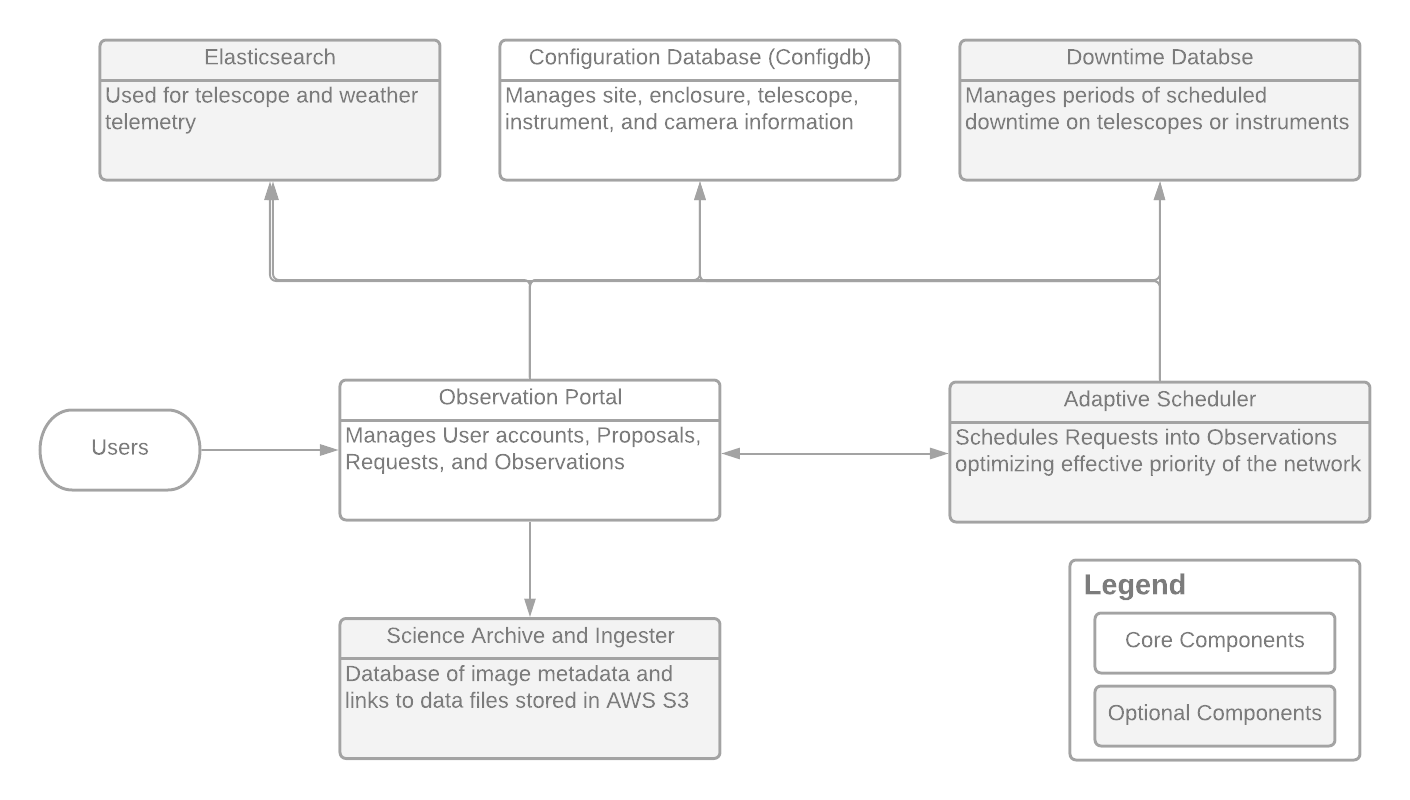
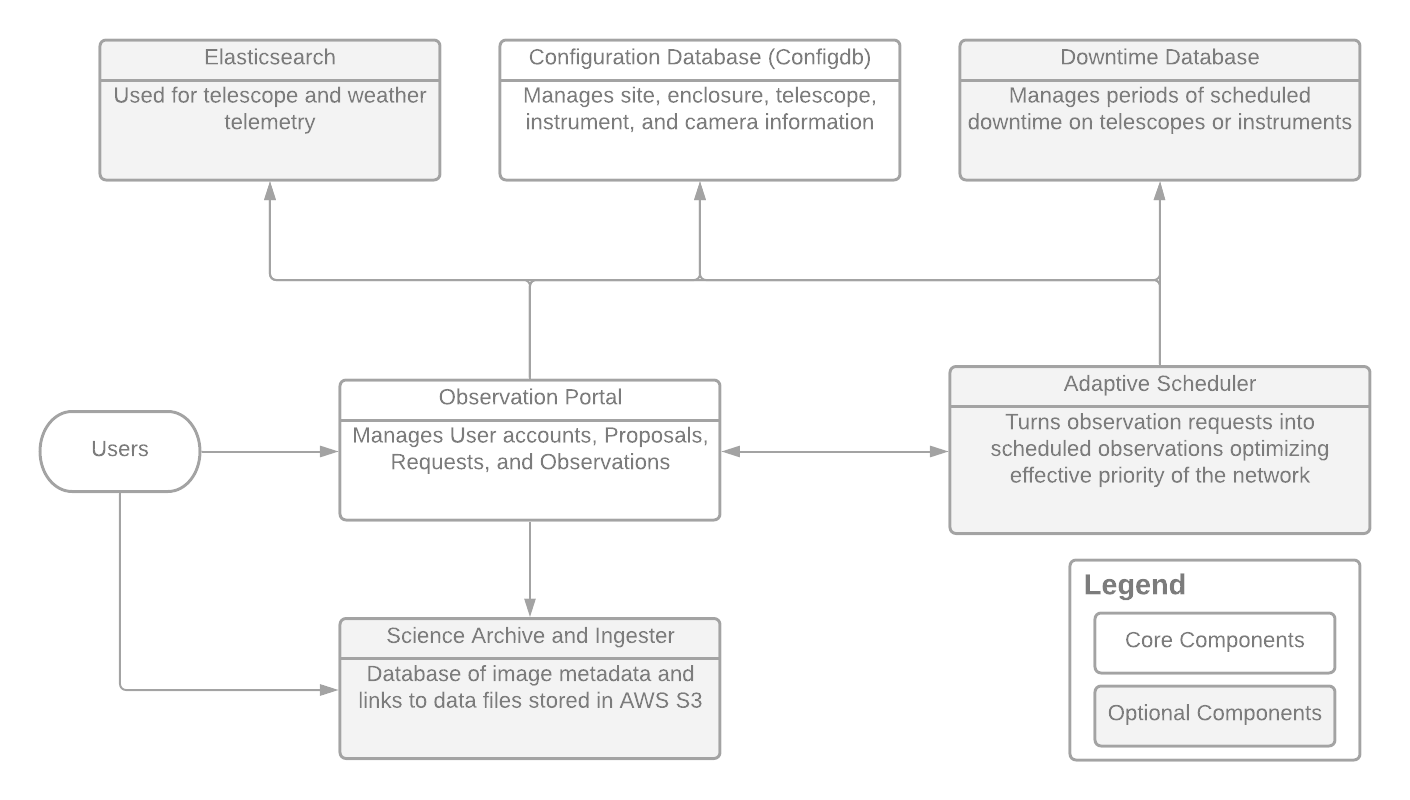
Addressed review comments and udpated diagrams

diff --git a/components/observation_portal.md b/components/observation_portal.md
@@ -9,21 +9,21 @@ hide_hero: true
 
 # Observation Portal
 
-The backbone of the Observatory Control System. This django application manages Users, Proposals, Requests, and Observations. The Observation Portal is deployed as a pypi library called django_ocs_observation_portal, and contains django apps for accounts, requests, observations, proposals, and sciapplications.
+The Observation Portal is a Django application that manages Users, Proposals, Observation Requests, and Observations, and is the backbone of the Observatory Control System. The Observation Portal is deployed as a pypi library called [django_ocs_observation_portal](https://pypi.org/project/django-ocs-observation-portal/), and contains Django apps for accounts, requests, observations, proposals, and sciapplications.
 
 ## Django Apps
 
 ### Accounts
 
-This app provides the User accounts that are used for authentication between all OCS applications, using [oauth2](https://django-oauth-toolkit.readthedocs.io/en/latest/). It also provides a Profile model which describes account details.
+This app provides the User accounts that are used for authentication between all OCS applications, using [oauth2](https://django-oauth-toolkit.readthedocs.io/en/latest/). It also provides a Profile model which includes additional account details.
 
 ### Requests
 
-The OCS Request language is designed to be able to support a broad range of observation requests. The request models in the diagram below show the hierchary of properties of a RequestGroup.
+The OCS Request language is designed to be able to support a broad range of observation requests. The models in the diagram below show the hierchary of properties of a RequestGroup.
 ![Request Models](/assets/images/request_models.png)
 
 - **RequestGroup** - The top level of the model. It contains one or more Requests and acts as a logical grouping to help the end user keep track of a set of Requests
-- **Request** - A single independent set of observations to be scheduled in one contiguous block on a resource
+- **Request** - A single independent set of observing parameters to be scheduled in one contiguous block on a resource
 - **Location** - A set of restrictions on which resources the Request can be scheduled on
 - **Window** - One or more datetime intervals during which the Request could be observed
 - **Configuration** - A set of observations on a single Target
@@ -31,9 +31,9 @@ The OCS Request language is designed to be able to support a broad range of obse
 - **Guiding** - Parameters for the guiding of the observation
 - **Acquisition** - Parameters for the acquisition of the target
 - **Constraints** - A set of observing constraints that must be met to schedule the observation
-- **Target** - The parameters describing the target, supporting ICRS, orbital elements, hour angle, or satellite coordinates.
+- **Target** - The parameters describing the target, supporting ICRS, orbital elements, hour angle, or satellite coordinates
 
-More information about the specific fields expected in each section of the RequestGroup can be found in the [api specification]({{ site.baseurl }}{% link api/downtime.md %}). Most fields have their values validated automatically from the acceptable values defined in the [Configuration Database (Configdb)]({{ site.baseurl }}{% link components/configuration_database.md %}). There are several areas of the configuration which allow for user defined instrument properties that will be validated automatically, including things like modes and optical path elements.
+More information about the specific fields expected in each section of the RequestGroup can be found in the [API specification]({{ site.baseurl }}{% link api/downtime.md %}). Most fields have their values validated automatically from the acceptable values defined in the [Configuration Database (Configdb)]({{ site.baseurl }}{% link components/configuration_database.md %}). There are several areas of the configuration which allow for user defined instrument properties that will be validated automatically, including things like modes and optical path elements.
 
 #### Observation Type
 
@@ -43,42 +43,43 @@ A RequestGroup can be submitted with one of three observation types, described i
 | ---------------- | ------------------ |
 | NORMAL | a normal Request whose priority is just the proposal's base priority multiplied by the `ipp_value` |
 | TIME_CRITICAL | base proposal priority is multiplied by 100. This factor is meant to beat out any NORMAL request, but all TIME_CRITICAL requests of the same priority are treated equally. This type is meant for observations that are coordinated between multiple observatories, or just have an extremely high priority |
-| RAPID_RESPONSE | These requests bypass normally scheduling and have their own scheduling loop that can pre-empt any non-RAPID_RESPONSE observation that is currently in progress. All requests of this type with the same base proposal priority are treated equally. These observation_types are very disruptive to the schedule, so they should only be used for observations that truely must begin immediately |
+| RAPID_RESPONSE | These requests bypass normal scheduling and have their own scheduling loop that can pre-empt any non-RAPID_RESPONSE observation that is currently in progress. All requests of this type with the same base proposal priority are treated equally. These observation_types are very disruptive to the schedule, so they should only be used for observations that truly must begin immediately |
+| DIRECT | a Request of this type is created when a directly submitted Observation is created to store the details of that observing request. These should only be submitted outside of the normal scheduling range of time or set of instruments, or during a scheduled period of downtime, so that they don't interfere with the scheduling of other observations |
 
 #### Extra Params
 
-Most of the levels of a RequestGroup have a json field called `extra_params` which accepts arbitrary key/value pairs that will be passed along to the telescope control software. This allows for complex non-standard configuration, instrument, target, or guiding and acquisition parameters to be added and used without modifying the Observation Portal code. Data passed through the `extra_params` fields will not be validated by default except in a handle of special cases, but custom validation code can be added to overwritten serializers.
+Most of the levels of a RequestGroup have a JSON field called `extra_params` which accepts arbitrary key/value pairs that will be passed along to the telescope control software. This allows for complex non-standard configuration, instrument, target, or guiding and acquisition parameters to be added and used without modifying the Observation Portal code. Data passed through the `extra_params` fields will not be validated by default except in a handful of special cases, but custom validation code can be added to overridden serializers.
 
 ### Observations
 
-The observations app deals with scheduled or directly submitted observations. An Observation is scheduled Request, or a Request plus information about status, where the observation is scheduled, and when. The hierarchy of an Observation is shown below, but it is very similar to that of the Request except with a few additional pieces of information tacked on.
+The observations app deals with scheduled or directly submitted observations. An Observation is a scheduled Request, or a Request plus information about status, where the observation is scheduled, and when. The hierarchy of an Observation is shown below, but it is very similar to that of the Request except with a few additional pieces of information tacked on.
 ![Observation Models](/assets/images/observation_models.png)
 
 - **Observation** - The top level of a Scheduled Request, this contains the *where* and *when* information,
-as well as some of the RequestGroup fields that the telescope control software might want to include in observation's data products
+as well as some of the RequestGroup fields that the telescope control software might want to include in the observation's data products
 - **Configuration Status** - This structure contains status information about a single Configuration of the Request.
 Observatory software is expected to report back status per Configuration in real time as it is attempted and completed.
-The contents of this structure will be merged into it's corresponding Configuration when retrieved through the API.
+The contents of this structure will be merged into its corresponding Configuration when retrieved through the API.
 
 Observations can be scheduled directly through the `/api/schedule/` endpoint, which will create a corresponding RequestGroup of `observation_type` **DIRECT**. They can also be created referencing existing Requests using the `/api/observations/` endpoint, which will just create an Observation and Configuration Statuses referencing the existing Request along with a start and end time and a location defined by the site, enclosure, telescope, and instrument.
 
 ### Proposals
 
-Proposals are an essential part of the Observation Portal for authenticating who is allowed to submit observational Requests and on what resource. Proposals can have one or more Principle Investigators (PIs) and any number of Co-Investigators (COIs) assigned to them. They can have any number of Time Allocations associated with them for any number of observing Semesters. The book keeping for the different types of time allocated to each proposal is handled automatically within the Observation Portal as Requests are submitted and cancelled and Observations are completed and updated. Proposals also contain a numerical priority, which is used when scheduling with the [Adaptive Scheduler]({{ site.baseurl }}{% link components/adaptive_scheduler.md %}) as part of the optimizations objective function.
+Proposals are an essential part of the Observation Portal for authenticating who is allowed to submit observation requests and on what resource. Proposals can have one or more Principle Investigators (PIs) and any number of Co-Investigators (COIs) assigned to them. They can have any number of Time Allocations associated with them for any number of observing Semesters. The book keeping for the different types of time allocated to each proposal is handled automatically within the Observation Portal as Requests are submitted and cancelled and Observations are completed and updated. Proposals also contain a numerical priority, which is used when scheduling with the [Adaptive Scheduler]({{ site.baseurl }}{% link components/adaptive_scheduler.md %}) as part of the optimizations objective function.
 
-Proposals are currently added to the system in one of two ways - either through the admin interface, or by porting them over via the Science Application process in the sciapplications app.
+Proposals are currently added to the system in one of two ways - either through the Django admin interface, or by generating them via the Science Application process in the sciapplications app.
 
 ### Sciapplications
 
-This application handles the proposal submission and review process. Calls for applications can be created via the admin interface, and eligible users can submit Science Applications via the API for consideration. After review, the accepted science applications can be automatically converted into Proposals with time allocations for the coming observing semester. This application can be completely ignored by Observatory's with existing proposal submission and time allocation processes - they can instead opt to just input the final proposals into the system.
+This Django app handles the proposal submission and review process. Calls for science applications can be created via the admin interface, and eligible users can submit science applications via the API for consideration. After review, the accepted science applications can be automatically converted into Proposals with time allocations for the coming observing semester. This application can be completely ignored by observatories with existing proposal submission and time allocation processes - they can instead opt to just input the final proposals into the system.
 
 ## How to Customize
 
-The first level of customization comes from the instrument and observatory definations within Configuration Database. By using Generic Modes, Optical Path Elements, and custom validation_schema, a lot of unique validation rules can be added to the Observation Portal without modifying any code. For more advanced customization, the [Observation Portal Project](https://github.com/observatorycontrolsystem/observation-portal-project) provides a forkable project that uses the `django_ocs_observation_portal` apps. It supports customization via overwriting any serializer in the project, or overwritting the `as_dict` methods of all the Models which is used for generating API responses. Environmental variables defined in the [README](https://github.com/observatorycontrolsystem/observation-portal) are used to specify the dotpath of each override class or method.
+The first level of customization comes from the instrument and observatory definitions within Configuration Database. By using Generic Modes, Optical Path Elements, and custom validation_schema, a lot of unique validation rules can be added to the Observation Portal without modifying any code. For more advanced customization, the [Observation Portal Project](https://github.com/observatorycontrolsystem/observation-portal-project) provides a forkable project that uses the `django_ocs_observation_portal` apps. It supports customization via overriding any serializer in the project, or overriding the `as_dict` methods of Models which are used for generating API responses. Environmental variables defined in the [README](https://github.com/observatorycontrolsystem/observation-portal) are used to specify the dotpath of each override class or method.
 
 ### Serializer Overrides
 
-The serializers define the validation logic for all the models of the Observation Portal. Any serializer can be overwritten by defining a serializer class that subclasses the corresponding library serializer and overrides any serializer method - usually the `validate` method. Here is an example serializer override that enforces that spectrograph instruments must include calibrations with their spectrum.
+The serializers define the validation logic for all the models of the Observation Portal. Any serializer can be overridden by defining a serializer class that subclasses the corresponding library serializer and overrides any serializer method - usually the `validate` method. Here is an example serializer override that enforces that spectrograph instruments must include calibrations with their spectrum.
 
 ```python
 from rest_framework import serializers
@@ -89,7 +90,7 @@ from observation_portal.common.configdb import configdb
 
 SPECTRO_CATEGORY = 'SPECTRA'
 
-class MyConfigurationSerializer(RequestSerializer):
+class MyRequestSerializer(RequestSerializer):
 
     def validate(self, data):
         validated_data = super().validate(data)
@@ -106,7 +107,7 @@ class MyConfigurationSerializer(RequestSerializer):
 
 ### as_dict Overrides
 
-We use `as_dict` methods within the django Models to efficiently serialize our return values for API calls. This circumvents the normal serialization behaviour within the django rest framework serializers, but it greatly speeds up the call, which is important when you have a large number of Requests. Overriding the as_dict method allows you to add fields or non-model data to any API response. The `as_dict` methods can be overwritten in the same way as the serializer classes, by specifying a new dotpath to your custom method in an environment variable. A simple as_dict override example is below.
+We use `as_dict` methods within the Django Models to efficiently serialize return values for API calls. This circumvents the normal serialization behaviour within the [Django Rest Framework Serializers](https://www.django-rest-framework.org/api-guide/serializers/), but it greatly speeds up the call, which is important when you have a large number of Requests. Overriding the as_dict method allows you to add fields or non-model data to any API response. The `as_dict` methods can be overridden in the same way as the serializer classes, by specifying a new dotpath to your custom method in an environment variable. A simple as_dict override example is below.
 
 ```python
 from observation_portal.requestgroups.models import requestgroup_as_dict

diff --git a/components/configuration_database.md b/components/configuration_database.md
@@ -7,17 +7,17 @@ menubar: menu
 hide_hero: true
 ---
 
-# Configuration Databse (configdb)
+# Configuration Database (configdb)
 
-This django application manages details about the observatory's Sites, Enclosures, Telescopes, Instruments, and Cameras. It stores a hierarchical representation of what is available at the observatory, which is used for automatic validation within the other OCS applications. It also contains timing information for pieces of observations with instruments, which is used in the Observation Portal to calculate an estimated duration for each request.
+This Django application manages details about the observatory's Sites, Enclosures, Telescopes, Instruments, and Cameras. It stores a hierarchical representation of what is available at the observatory, which is used for automatic validation within the other OCS applications. It also contains overheads for different parts of an observation for each instrument, which is used in the Observation Portal to calculate an estimated duration for each request.
 
 ## Structure
 
 ![Configdb Models](/assets/images/configdb_models.png)
 
-- **Site** - The top level of the model. It contains a 3 digit site code (often the closest airport code), and lat/lon/timezone information
-- **Enclosure** - A 4 digit enclosure code representing a physical enclosure at a site
-- **Telescope** - Contains a 4 digit telescope code as well as telescope specific information that aids in calculating target visibility, such as the horizon and hour angle limits and zenith blind spot of the telescope
+- **Site** - The top level of the model. It contains a 3 character site code (often the closest airport code), and lat/lon/timezone information
+- **Enclosure** - A 4 character enclosure code representing a physical enclosure at a site
+- **Telescope** - Contains a 4 character telescope code as well as telescope specific information that aids in calculating target visibility, such as the horizon and hour angle limits and zenith blind spot of the telescope
 - **Instrument** - Specific instance of an **Instrument Type** on a **Telescope**, containing one or more Science Cameras and one Autoguider camera and the current observational state
 - **Instrument Type** - Generically defines a class of instruments on one telescope aperture size. Contains a lot of details about overheads and properties relating to instruments of this type
 - **Instrument Category** - The broad category that this Instrument Type is part of. Usually two categories of Imager and Spectrograph is sufficient to cover most instrument types
@@ -25,32 +25,32 @@ This django application manages details about the observatory's Sites, Enclosure
 - **Camera** - Specific instance of a **Camera Type** with set of **Optical Elements Groups** associated with it
 - **Camera Type** - The details of a class of cameras, such as their pixel scale and resolution
 - **Optical Element Group** - A grouping of **Optical Element**s of the same type with an optional default and an element change overhead
-- **Optical Element** - A generic code for a single optical path element that can be allowed for scheduling or not. This can encapsulate anything in the optical path of the instrument, including filters, slits, diffusers, or gratings
+- **Optical Element** - A generic code for a single optical path element that can be made available for scheduling or not. This can encapsulate anything in the optical path of the instrument, including filters, slits, diffusers, or gratings
 - **Generic Mode Group** - A grouping of **Generic Mode**s of the same type that apply to a single **Instrument Type**, along with an optional default for the group
 - **Generic Mode** - A set of properties defining a single generic mode, including overhead, schedulability, and a [Cerberus](https://docs.python-cerberus.org/en/stable/schemas.html) styled validation schema. This can encapsulate any type of modes needed for validation, including but not limited to readout, guiding, acquisition, exposure, and rotator modes
 
 ## Special features and Generics
 
-In this section we will highlight a few of the generic aspects of the Configuration Databse, which can allow users to customize properties to fit their instruments better
+In this section we will highlight a few of the generic aspects of the Configuration Database, which can allow users to customize properties to fit their instruments better.
 
 ### Generic Modes
 
-The Generic Modes and Generic Mode Groupings allow for defining arbitrary *types* of mode sets, which can assist in custom validation within the Observation Portal by overriding corresponding serializers. The default Generic Mode types used by the base Observation Portal listed below, but additional types can be added as needed.
+The Generic Modes and Generic Mode Groupings allow for defining arbitrary *types* of mode sets, which can assist in custom validation within the Observation Portal by overriding corresponding serializers. The default Generic Mode types used by the base Observation Portal are listed below, but additional types can be added as needed.
 
 | Type | Description |
 | ---- | ----------- |
-| readout | Validates against the **Instrument Config** `mode` attribute in a **Request**. A named readout mode should be defined and interpretted by the telescope control software to encapsulate any number of instrument parameters, including things like binning |
-| acquisition | Validates against the **Acquisition Config** `mode` in a **Request**. A named acquisition mode should be defined and interpretted by the telscope control software to encapsulte different types of acquisition. If additional properties need to be user specified, they can be required within the validation schema of the mode |
-| guiding | Validates against the **Guiding Config** `mode` in a **Request**. A named guiding mode should be defined and interpretted by the telscope control software to encapsulte different methods of guiding. If additional properties need to be user specified, they can be required within the validation schema of the mode |
-| rotator | Validates against the **Instrument Config** `rotator_mode` in a **Request**. A named acquisition mode should be defined and interpretted by the telscope control software to encapsulte different types of acquisition. If additional properties need to be user specified, they can be required within the validation schema of the mode |
+| readout | Validates against the **Instrument Config** `mode` attribute in a **Request**. A named readout mode should be defined and interpreted by the telescope control software to encapsulate any number of instrument parameters, including things like binning |
+| acquisition | Validates against the **Acquisition Config** `mode` in a **Request**. A named acquisition mode should be defined and interpreted by the telscope control software to encapsulte different types of acquisition. If additional properties need to be user specified, they can be required within the validation schema of the mode |
+| guiding | Validates against the **Guiding Config** `mode` in a **Request**. A named guiding mode should be defined and interpreted by the telscope control software to encapsulte different methods of guiding. If additional properties need to be user specified, they can be required within the validation schema of the mode |
+| rotator | Validates against the **Instrument Config** `rotator_mode` in a **Request**. A named acquisition mode should be defined and interpreted by the telscope control software to encapsulte different types of acquisition. If additional properties need to be user specified, they can be required within the validation schema of the mode |
 
 ### Optical Elements
 
-Much like the Generic Mode Groups, the Optical Element Groups allow for defining arbitrary *types* of sets of optical elements for an **Camera**. The optical element groups have a element change overhead that is factored into Request durations, and the elements themselves can be marked as schedulable or not. The intention of generic Optical Elements is to support anything user configurable that is in the optical path of an instrument, such as filters, slits, diffusers, or gratings. They are used for automatic validation for Requests submitted in the Observation Portal.
+Much like the Generic Mode Groups, the Optical Element Groups allow for defining arbitrary *types* of sets of optical elements for a **Camera**. The optical element groups have an element change overhead that is factored into Request durations, and the elements themselves can be marked as schedulable or not. The intention of generic Optical Elements is to support anything user configurable that is in the optical path of an instrument, such as filters, slits, diffusers, or gratings. They are used for automatic validation for Requests submitted in the Observation Portal.
 
 ### Cerberus Validation Schema
 
-The **Instrument Type** and **Generic Mode** models currently contain a field called `validation_schema`, which accepts a [Cerberus validation schema](https://docs.python-cerberus.org/en/stable/schemas.html) as a json blob. This validation schema is applied to the section of the **Request** in which the mode or instrument_type applies. Validation schemas can be used to enfore that existing fields or extra parameters are specified, or even fill in default values for certain fields that are left blank in the **Request**. They can enforce the typing and valid ranges of fields as well. An example validation schema for a readout mode that sets the binning into the extra_params section is defined below.
+The **Instrument Type** and **Generic Mode** models currently contain a field called `validation_schema`, which accepts a [Cerberus validation schema](https://docs.python-cerberus.org/en/stable/schemas.html) as a JSON blob. This validation schema is applied to the section of the **Request** in which the mode or instrument_type applies. Validation schemas can be used to enfore that existing fields or extra parameters are specified, or even fill in default values for certain fields that are left blank in the **Request**. They can enforce the typing and valid ranges of fields as well. An example validation schema for a readout mode that sets the binning into the extra_params section is defined below.
 
 ```json
 {

diff --git a/components/index.md b/components/index.md
@@ -8,7 +8,7 @@ hide_hero: true
 
 # Components
 
-The Observation Control System is composed of several python libraries, applications, and django web applications that work together to provide a complete upper stack solution to an observatory. The diagram below shows the major OCS components and how they are interconnected.
+The Observatory Control System (OCS) is composed of several python libraries, applications, and Django web applications that work together to provide a complete upper stack solution to manage an observatory. The diagram below shows the major OCS components and how they are interconnected.
 
 ![OCS Components](/assets/images/ocs_applications.png)
 
@@ -16,16 +16,16 @@ The Observation Control System is composed of several python libraries, applicat
 
 The core of the OCS is the [Observation Portal]({{ site.baseurl }}{% link components/observation_portal.md %}). It manages User accounts for all the other applications that need authentication, and it provides a database and API for submitting, updating, and viewing Proposals, Requests, and Observations.
 
-The [Configuration Database (Configdb)]({{ site.baseurl }}{% link components/configuration_database.md %}) manages the state of the observatory, as viewed by the other upper stack applications. It provides hierarchical models of the observatory's structure, from the site/enclosure/telescope down to the modes and properties of cameras within an instrument. The purpose of this information is to allow of automatic validation and filling in of observatory details in the other applications.
+The [Configuration Database (Configdb)]({{ site.baseurl }}{% link components/configuration_database.md %}) manages the state of the observatory, as viewed by the other upper stack applications. It provides hierarchical models of the observatory's structure, from the site/enclosure/telescope down to the modes and properties of cameras within an instrument. The purpose of this information is to allow automatic validation and auto-completion of observatory details when possible in the other applications.
 
 These two applications represent the minimum viable portion of the OCS needed to manage Users, Proposals, and Requests for an observatory.
 
 ## Optional Components
 
-These applications all add on to the core OCS applications in various ways, but their inclusion into the software stack is optional. If an observatory already has a custom solution for one of the components, like scheduling or archiving of data, then those can be integrated with the Observation Portal rather than using the OCS [Adaptive Scheduler]({{ site.baseurl }}{% link components/adaptive_scheduler.md %}) or [Science Archive]({{ site.baseurl }}{% link components/science_archive.md %}).
+The optional components are not required, but they expand the capabilities of an OCS software stack in various ways. If an observatory already has a custom solution for one of the components, such as scheduling or data archiving, then those can be integrated with the Observation Portal rather than using the OCS [Adaptive Scheduler]({{ site.baseurl }}{% link components/adaptive_scheduler.md %}) or [Science Archive]({{ site.baseurl }}{% link components/science_archive.md %}).
 
 The [Adaptive Scheduler]({{ site.baseurl }}{% link components/adaptive_scheduler.md %}) provides a python application which interfaces with the other OCS databases to turn a set of input Requests into a set of scheduled Observations in the Observation Portal. While the scheduler is fully integrated into the OCS ecosystem, it is possible to use another scheduling method instead.
 
-The [Science Archive application and Ingester library]({{ site.baseurl }}{% link components/science_archive.md %}) provide the means to upload data products into Amazon Web Services (AWS) S3 buckets, and store their metadata in a database to allow for easy searching, filtering, and bulk downloading of the data products by users. AWS S3 provides a relatively cheap and scalable way for observatories to store their data products redundantly and long-term, but if an observatory already has a solution for storing data products, they can continue to use that.
+The [Science Archive application and Ingester library]({{ site.baseurl }}{% link components/science_archive.md %}) provide the means to upload data products into Amazon Web Services (AWS) S3 buckets, and store their metadata in a database to allow for easy searching, filtering, and bulk downloading of the data products by users using the Science Archive API. AWS S3 provides a relatively inexpensive and scalable way for observatories to store data products redundantly and long-term, but if an observatory already has a solution for storing data products, they can continue to use that.
 
-The [Downtime Database]({{ site.baseurl }}{% link components/downtime_database.md %}) is a simple database, REST API, and web frontend for creating and retrieving periods of unschedulable time on a telescope or instrument_type. Using the downtime database isn't strictly necessary, but it can increase scheduling efficiency at the observatory since observations can be scheduled exactly around the bounds of known periods of downtime.
+The [Downtime Database]({{ site.baseurl }}{% link components/downtime_database.md %}) is a simple database with a REST API and web frontend for creating and retrieving periods of planned downtime on a telescope or instrument. Using the downtime database isn't strictly necessary, but it can increase scheduling efficiency at the observatory since observations can be scheduled exactly around the bounds of known periods of downtime.

diff --git a/components/adaptive_scheduler.md b/components/adaptive_scheduler.md
@@ -9,19 +9,19 @@ hide_hero: true
 
 # Adaptive Scheduler
 
-A python script that continuously runs the scheduling loop, optimizing the effective priority over the scheduling horizon. It utilizes a MIPS solver to optimize for the largest effective priority on the telescope network over your observing horizon. It uses [Googles OR Tools](https://github.com/google/or-tools) for the solver, which supports multiple free or comercial optimization algorithms. It has a large number of configurable options via command line or environment variable that are described in the [README](https://github.com/observatorycontrolsystem/adaptive_scheduler/blob/main/README.md)
+A python script that continuously runs the scheduling loop, optimizing the effective priority over the scheduling horizon. It utilizes a MIPS solver to optimize for the largest effective priority on the telescope network over your observing horizon. It uses [Googles OR Tools](https://github.com/google/or-tools) for the solver, which supports multiple free or commercial optimization algorithms. It has a large number of configurable options via command line or environment variable that are described in the [README](https://github.com/observatorycontrolsystem/adaptive_scheduler/blob/main/README.md).
 
 ## How it works
 
-The scheduler gets data from the other OCS apps to know what, when, and where it can schedule. A diagram showing the flow of a scheduling cycle and its communication with the other apps is shown below.
+The scheduler gets data from the other OCS components to know what, when, and where it can schedule. A diagram showing the flow of a scheduling cycle and its communication with the other components is shown below.
 
 ![Scheduler Workflow](/assets/images/scheduler_workflow.png)
 
-The ConfigDB and Observation Portal connections are essential, but the DowntimeDB and TelemetryDB connections are both optional. The scheduler starts by getting the set of schedulable telescopes, by looking at what sites and telescopes are `active` in ConfigDB and optionally by looking at an Elasticsearch DB for weather and availability telescope telemetry. It then gets the set of schedulable Requests from the Observation Portal and checks what Observations are currently running on each telescope. A set of pre-filters are applied to build the availability windows for each Request on each telescope resource, and then the optimization kernel runs and solves for the optimal schedule. The output schedule of where and when to complete each scheduled Request is then submitted to the Observation Portal as a set of Observations on each telescope. Each scheduling cycle first schedules all `RAPID_RESPONSE` Requests, and then schedules the `NORMAL` and `TIME_CRITICAL` Requests together afterwards.
+The ConfigDB and Observation Portal connections are essential, but the DowntimeDB and TelemetryDB connections are both optional. The scheduler starts by getting the set of schedulable telescopes, by looking at what sites and telescopes are `active` in ConfigDB and optionally by looking at an Elasticsearch DB for weather and telescope availability telemetry. It then gets the set of schedulable Requests from the Observation Portal and checks what Observations are currently running on each telescope. A set of pre-filters are applied to build the availability windows for each Request on each telescope resource, and then the optimization kernel runs and solves for the optimal schedule. The output schedule of where and when to complete each scheduled Request is then submitted to the Observation Portal as a set of Observations on each telescope. Each scheduling cycle first schedules all `RAPID_RESPONSE` Requests, and then schedules the `NORMAL` and `TIME_CRITICAL` Requests together afterwards.
 
 ### Telemetry
 
-The TelemetryDB is currently expecting weather and telescope availability telemetry in a specific format within an ElasticSearch database, but the code could be extended to support other data sources and formats for weather data. The format of data it currently expects is referenced in the [code here](https://github.com/observatorycontrolsystem/adaptive_scheduler/blob/main/adaptive_scheduler/monitoring/elasticearch_telemetry.py), while the a [NetworkStateMonitor](https://github.com/observatorycontrolsystem/adaptive_scheduler/blob/main/adaptive_scheduler/monitoring/monitors.py#L25) can be implemented for any other data source. The monitor will be queried each scheduling run and should be able to answer the question of if an observing resource (a telescope) is available for scheduling.
+The TelemetryDB currently expects weather and telescope availability telemetry in a specific format within an ElasticSearch database, but the code can be extended to support other data sources and formats for weather data. The format of data it currently expects is referenced in the [code here](https://github.com/observatorycontrolsystem/adaptive_scheduler/blob/main/adaptive_scheduler/monitoring/elasticearch_telemetry.py), while the a [NetworkStateMonitor](https://github.com/observatorycontrolsystem/adaptive_scheduler/blob/main/adaptive_scheduler/monitoring/monitors.py#L25) can be implemented for any other data source. The monitor will be queried each scheduling run and should be able to answer the question of if an observing resource (a telescope) is available for scheduling.
 
 ### Objective Function
 

diff --git a/components/downtime_database.md b/components/downtime_database.md
@@ -9,8 +9,8 @@ hide_hero: true
 
 # Downtime Database
 
-This django application manages a REST API and web frontend for creating and retrieving periods of downtime at a telescope or instrument_type. Downtime periods are time ranges in which scheduling is blocked in advance for any number of reasons, including maintenance, non-robotic usage, or certain instruments being offline.
+This Django application manages a REST API and web frontend for creating and retrieving periods of downtime on a telescope or instrument type. Downtime periods are time ranges in which scheduling is blocked in advance for any number of reasons, including maintenance, non-robotic usage, or certain instruments being offline.
 
-This application is optional in the OCS ecosystem. It is useful to block out downtimes in advance for the scheduler to be able to scheduler observations around them, and for the downtimes to not interrupt any ongoing observations. If that is not a big concern, then simply switching the telescopes to inactive in configdb or changing the state of instruments to be unschedulable will prevent those resources from being scheduled on the same way a downtime block would.
+This application is optional in the OCS ecosystem. It is useful to block out downtimes in advance so that the scheduler can schedule observations around those periods of downtime, which can help prevent interrupts to ongoing observations. If that is not a big concern, then simply switching the telescopes to inactive in configdb or changing the state of instruments to be unschedulable will prevent those resources from being scheduled on the same way a downtime block would.
 
-A Downtime block requires the time range, and the site, enclosure, and telescope code it applies to. It can optionally accept an instrument_type, if you would like the downtime to only apply to instruments of the choosen type on that telescope. It can also optionally accept a human-readable downtime reason, which is strictly used to inform the user in various web interfaces.
+A Downtime block requires the time range, and the site, enclosure, and telescope code it applies to. It can optionally accept an instrument type, if you would like the downtime to only apply to instruments of the choosen type on that telescope. It can also optionally accept a human-readable downtime reason, which is strictly used to inform the user in various web interfaces.

diff --git a/components/science_archive.md b/components/science_archive.md
@@ -10,8 +10,8 @@ hide_hero: true
 
 # Science Archive
 
-This django application manages manages the observatory's data products, and references the raw data products which are stored in AWS S3. It features a REST API for querying for the metadata and download links for data products, and for submitting the metadata and S3 location of newly ingested data products. For the complete list of filterable fits header values, check out the [API specification]({{ site.baseurl }}{% link api/downtime.md %}).
+This Django application manages the observatory's data products, and references the raw data products which are stored in AWS S3. It features a REST API for retrieving metadata and download links for data products, and also for submitting metadata and data products for upload to S3. For the complete list of filterable FITS header values, check out the [API specification]({{ site.baseurl }}{% link api/downtime.md %}).
 
 ## Ingester Library
 
-This python library `ocs_ingester` is used to upload data products to an AWS S3 bucket, and to update the **Science Archive** with metadata for that data product. It validates that the metadata contains all the required values, and adds in values for which it can determine a default value. It can accept data products of any file type, but if it is not a .fits file, the proper fits header data will need to be supplied as a dictionary along with the file so the file is queryable.
+This python library is available on PyPI as [ocs_ingester](https://pypi.org/project/ocs-ingester/) is used to upload data products to an AWS S3 bucket, and to update the **Science Archive** with metadata for that data product. It validates that the metadata contains all the required values, and adds in values for which it can determine a default value. It can accept data products of any file type, but if it is not a FITS file, the proper FITS header data will need to be supplied as a dictionary along with the file so the file is queryable.
